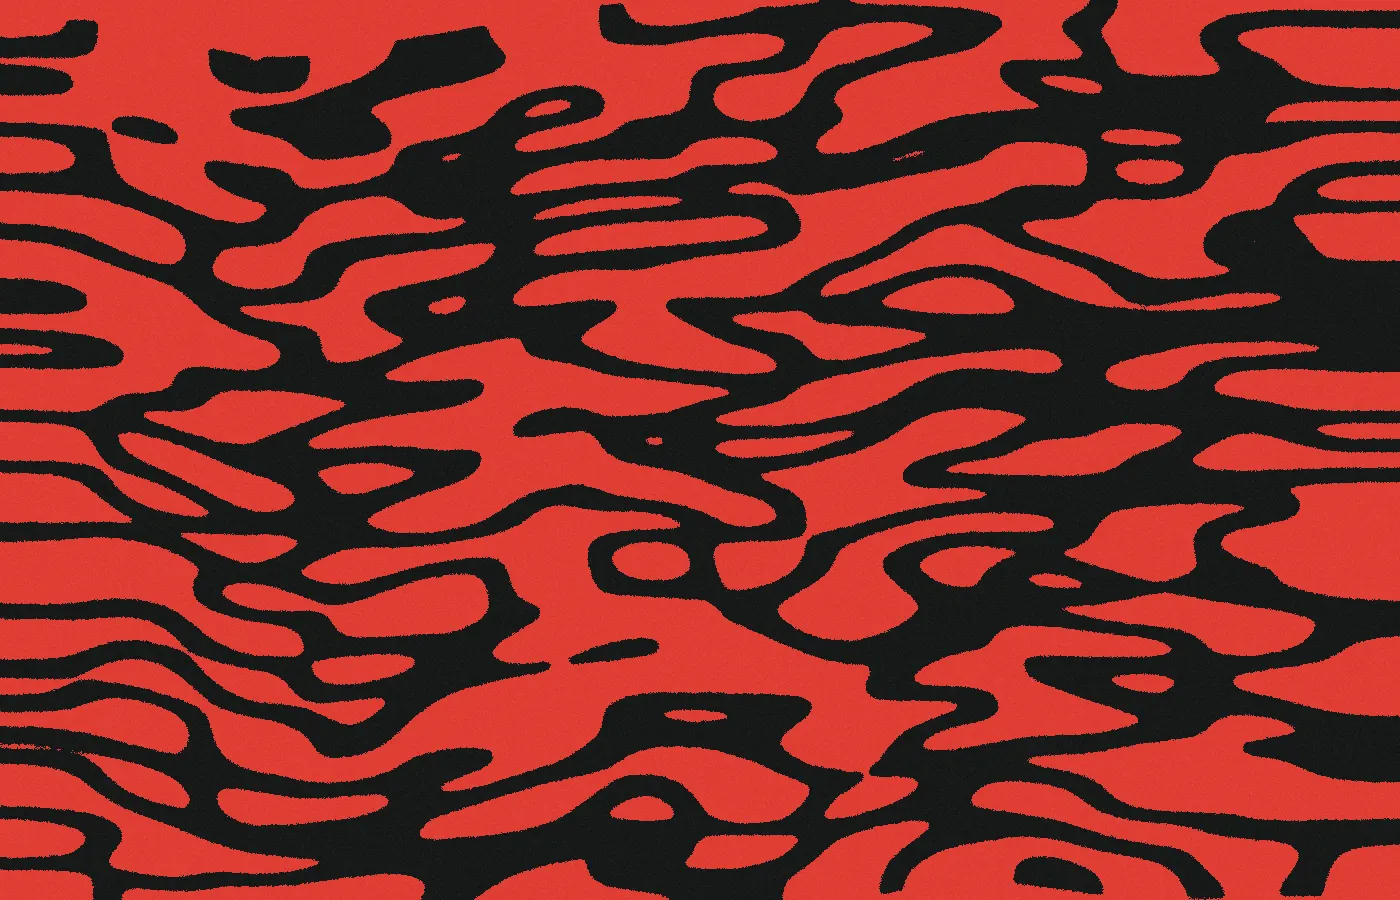
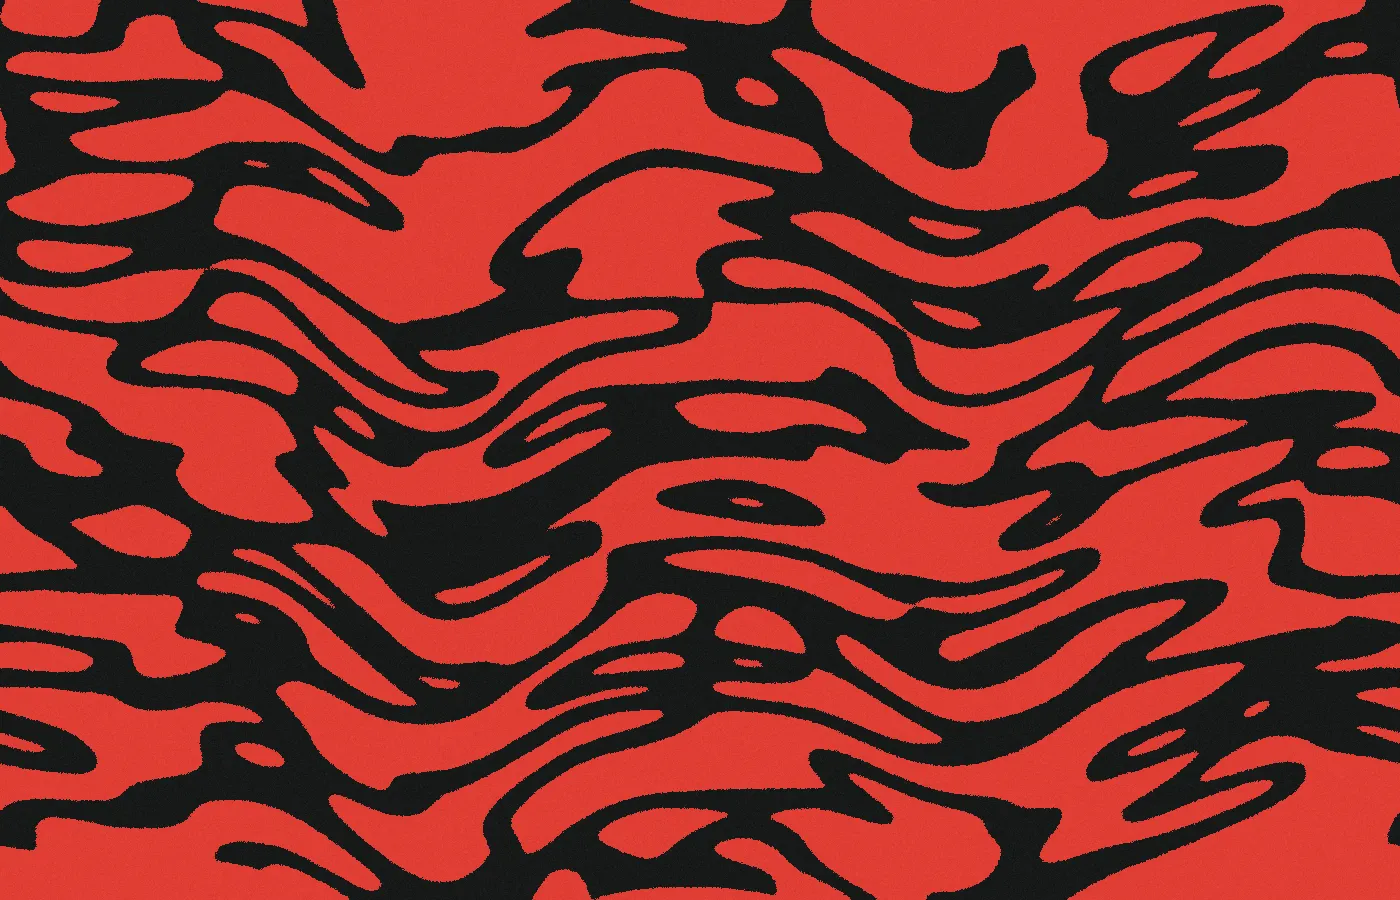
fix: faixas de chamas viradas cobrem a emenda e texturas emendam na repetição

diff --git a/css/secoes.css b/css/secoes.css
@@ -320,10 +320,10 @@
 #carreira { background: var(--vermelho); --chamas: url("../assets/texturas/preto-no-vermelho.webp"); }
 #numeros { --chamas: url("../assets/texturas/vermelho-no-preto.webp"); }
 #producoes { --chamas: url("../assets/texturas/creme-no-preto.webp"); }
-#sets { background: var(--preto); --chamas: url("../assets/texturas/creme-no-preto.webp"); --chamas-giro: scaleY(-1); }
+#sets { background: var(--preto); --chamas: url("../assets/texturas/creme-no-preto.webp"); --chamas-giro: scaleY(-1); --chamas-sentido: to top; }
 #lineup { background: var(--vermelho); --chamas: url("../assets/texturas/preto-no-vermelho.webp"); }
 #assinatura { --chamas: url("../assets/texturas/vermelho-no-creme.webp"); }
-#contrate { --chamas: url("../assets/texturas/vermelho-no-creme.webp"); --chamas-giro: scaleY(-1); }
+#contrate { --chamas: url("../assets/texturas/vermelho-no-creme.webp"); --chamas-giro: scaleY(-1); --chamas-sentido: to top; }
 .producoes__titulo, .sets__titulo, .lineup__titulo { font-size: clamp(48px, 7vw, 112px); }
 
 /* ---------- carreira e números (rodada 2) ---------- */

diff --git a/css/base.css b/css/base.css
@@ -179,7 +179,9 @@ main > section:focus { outline: none; } /* seção focada pelo menu: o foco é p
   content: ""; position: absolute; left: 0; right: 0; top: -1px; height: 100px; z-index: 1; pointer-events: none;
   background: var(--chamas) center top / auto 300px repeat-x;
   transform: var(--chamas-giro, none);
-  -webkit-mask-image: linear-gradient(#000 35%, transparent); mask-image: linear-gradient(#000 35%, transparent);
+  /* a máscara gira junto com o elemento: nas faixas viradas ela vai "to top" para continuar opaca na emenda */
+  -webkit-mask-image: linear-gradient(var(--chamas-sentido, to bottom), #000 35%, transparent);
+  mask-image: linear-gradient(var(--chamas-sentido, to bottom), #000 35%, transparent);
 }
 @media (max-width: 820px) { .chamas-topo::before { height: 60px; background-size: auto 200px; } }
 

diff --git a/tools/gerar-texturas.py b/tools/gerar-texturas.py
@@ -2,6 +2,11 @@
 
 Saída: assets/texturas/{preto-no-vermelho,vermelho-no-preto,creme-no-preto,vermelho-no-creme}.webp
 Uso: python tools/gerar-texturas.py   (requer Pillow)
+
+As texturas são periódicas na horizontal (a borda direita emenda com a esquerda), porque o site as
+repete com repeat-x. Para isso, o ruído e os filtros rodam numa faixa 3× mais larga, feita de três
+cópias da mesma grade, e a imagem final é o terço do meio. A semente de cada textura alimenta um
+random.Random próprio (Image.effect_noise não usa o random do Python).
 """
 from pathlib import Path
 import random
@@ -22,32 +27,44 @@ TEXTURAS = {
 }
 
 
-def ruido(w: int, h: int, gx: int, gy: int, blur: float, semente: int) -> Image.Image:
-    random.seed(semente)
-    return Image.effect_noise((gx, gy), 100).resize((w, h), Image.BICUBIC).filter(ImageFilter.GaussianBlur(blur))
+def gauss(rng: random.Random, n: int, sigma: float) -> bytes:
+    return bytes(max(0, min(255, int(rng.gauss(128, sigma)))) for _ in range(n))
+
+
+def ruido_periodico(w: int, h: int, gx: int, gy: int, blur: float, rng: random.Random) -> Image.Image:
+    """Ruído suave com período w na horizontal, numa imagem 3w × h (w precisa ser múltiplo de gx)."""
+    assert w % gx == 0
+    grade = Image.frombytes("L", (gx, gy), gauss(rng, gx * gy, 100))
+    tripla = Image.new("L", (3 * gx, gy))
+    for k in range(3):
+        tripla.paste(grade, (k * gx, 0))
+    img = tripla.resize((3 * w, h), Image.BICUBIC)
+    return img.filter(ImageFilter.GaussianBlur(blur)) if blur else img
 
 
 def chamas(semente: int, largura: int, warp: int = 60) -> Image.Image:
     """Crista de ruído esticado (|v-128| pequeno vira tinta), ondulada por coluna e com borda granulada."""
-    base = ruido(W, H, 14, 34, 10, semente)
-    crista = ImageChops.difference(base, Image.new("L", (W, H), 128)).point(lambda v: 255 if v < largura else 0)
-    deslocamento = ruido(W, 1, max(2, W // 160), 1, 0, semente + 7).resize((W, 1)).load()
-    ondulada = Image.new("L", (W, H), 0)
-    for x in range(W):
+    rng = random.Random(semente)
+    base = ruido_periodico(W, H, 14, 34, 10, rng)
+    crista = ImageChops.difference(base, Image.new("L", base.size, 128)).point(lambda v: 255 if v < largura else 0)
+    deslocamento = ruido_periodico(W, 1, 8, 1, 0, rng).load()
+    ondulada = Image.new("L", base.size, 0)
+    for x in range(3 * W):
         dy = int((deslocamento[x, 0] - 128) / 128 * warp)
         ondulada.paste(crista.crop((x, 0, x + 1, H)), (x, dy))
-    grossa = ondulada.filter(ImageFilter.MaxFilter(5)).filter(ImageFilter.GaussianBlur(2.5))
-    grao = Image.effect_noise((W, H), 60)
+    grossa = ondulada.filter(ImageFilter.MaxFilter(5)).filter(ImageFilter.GaussianBlur(2.5)).crop((W, 0, 2 * W, H))
+    grao = Image.frombytes("L", (W, H), gauss(rng, W * H, 60))
     return ImageChops.add(grossa.point(lambda v: v * 0.9), grao.point(lambda v: v * 0.25)).point(lambda v: 255 if v > 140 else 0)
 
 
-def pintar(mascara: Image.Image, fundo: str, tinta: str) -> Image.Image:
+def pintar(mascara: Image.Image, fundo: str, tinta: str, rng: random.Random) -> Image.Image:
     img = Image.composite(Image.new("RGB", mascara.size, tinta), Image.new("RGB", mascara.size, fundo), mascara)
-    return Image.blend(img, Image.effect_noise(mascara.size, 40).convert("RGB"), 0.07)
+    grao = Image.frombytes("L", mascara.size, gauss(rng, mascara.size[0] * mascara.size[1], 40)).convert("RGB")
+    return Image.blend(img, grao, 0.07)
 
 
 if __name__ == "__main__":
     SAIDA.mkdir(parents=True, exist_ok=True)
     for nome, (fundo, tinta, semente, largura) in TEXTURAS.items():
-        pintar(chamas(semente, largura), fundo, tinta).save(SAIDA / f"{nome}.webp", quality=78)
+        pintar(chamas(semente, largura), fundo, tinta, random.Random(semente + 1000)).save(SAIDA / f"{nome}.webp", quality=78)
         print("ok textura", nome)
